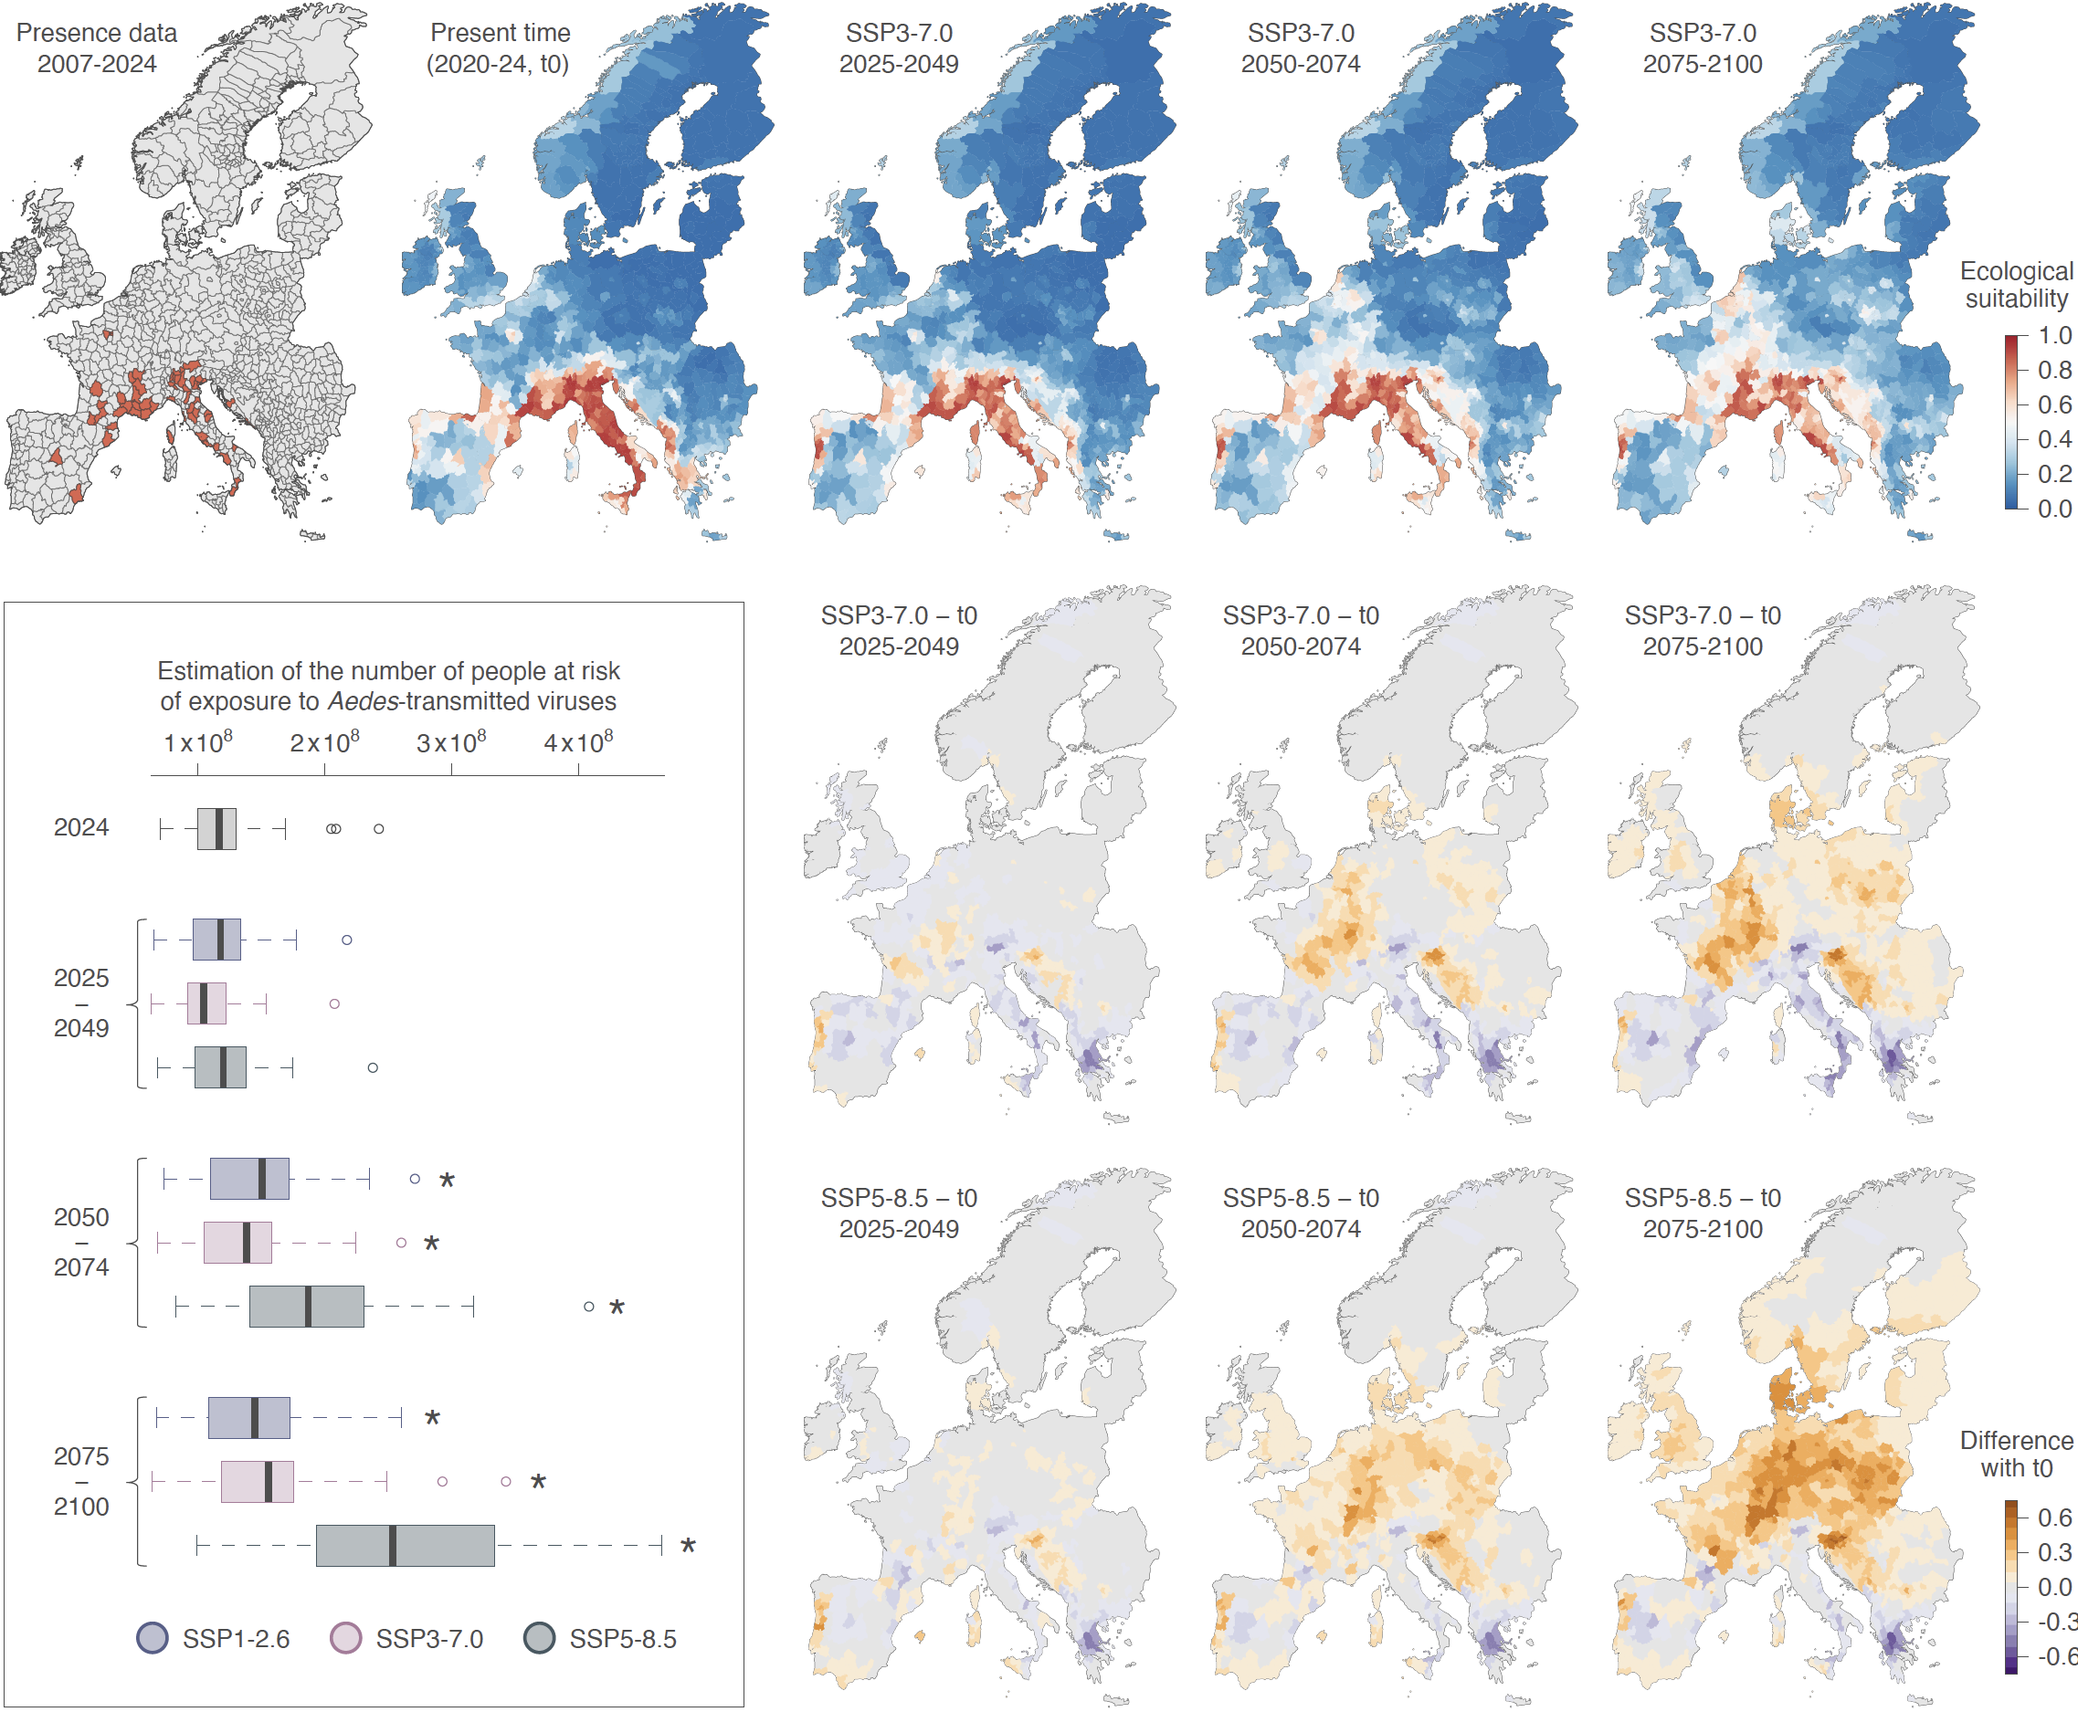
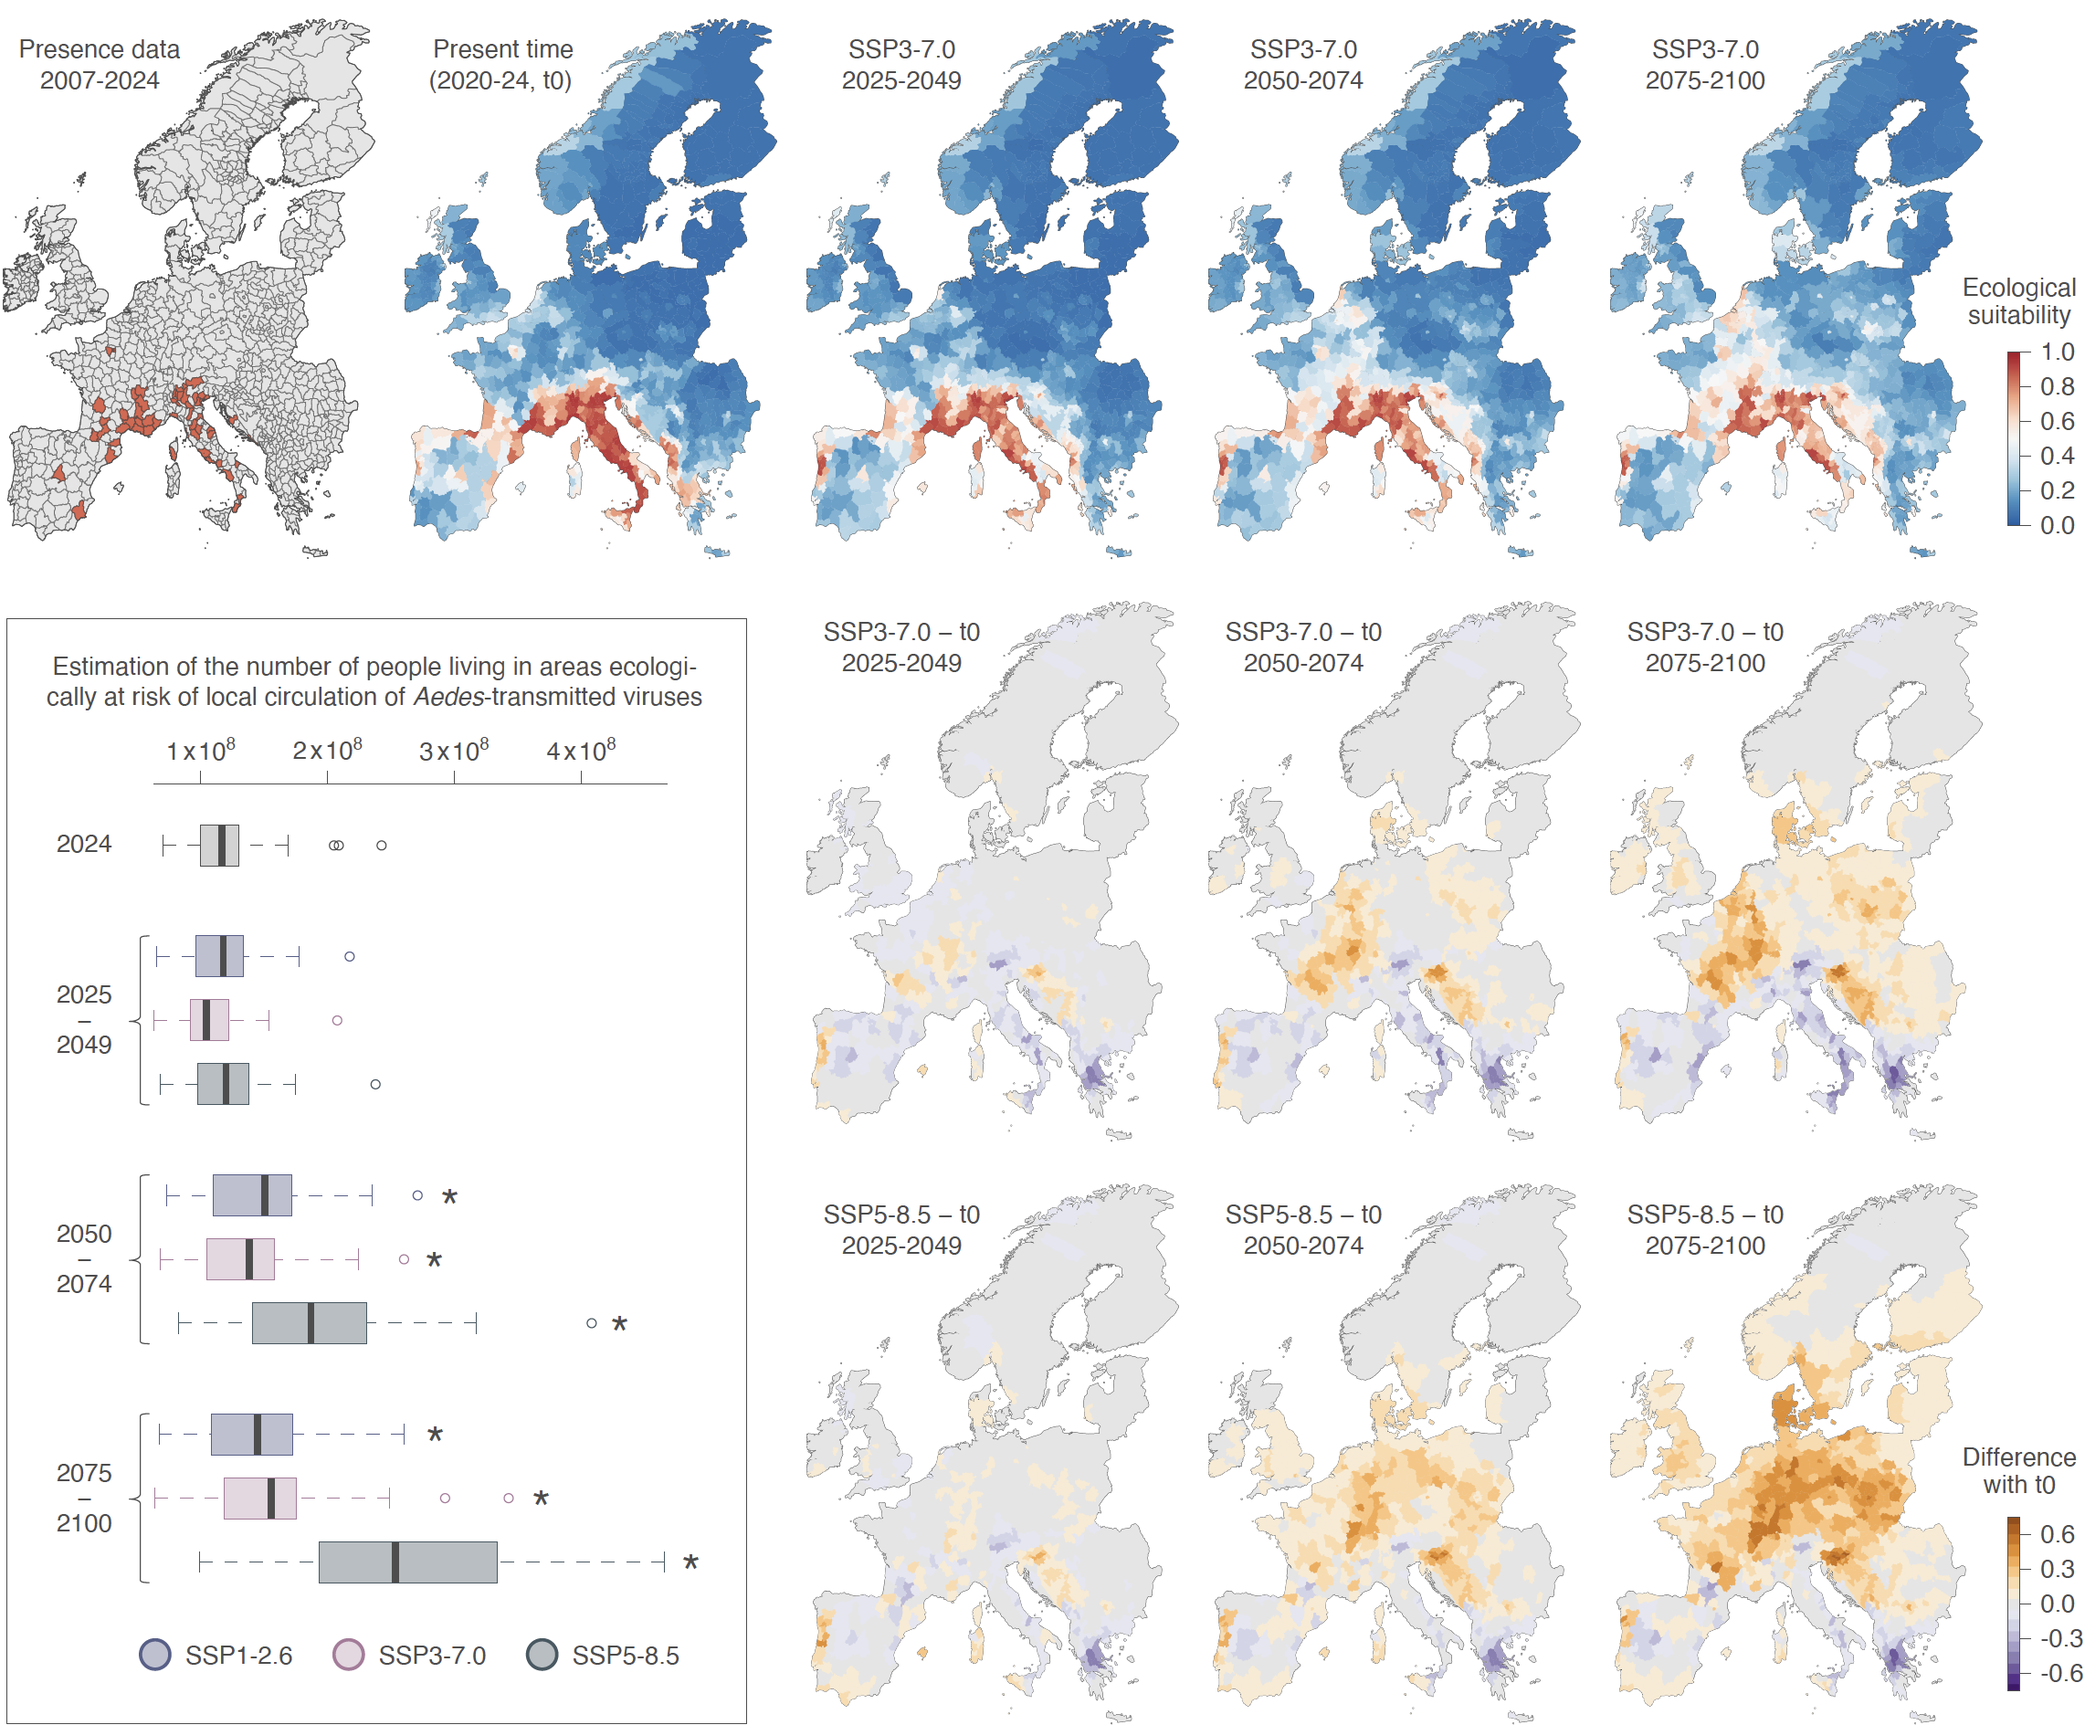
updating repo

diff --git a/README.md b/README.md
@@ -2,11 +2,11 @@
 
 This repo gathers the input files and scripts related to our study entitled "**Escalating human exposure to <i>Aedes</i> mosquito-borne viruses in Europe**" (*submitted*). R scripts used to conduct the ecological niche modelling analyses described in this study are all available in `Scripts_&_data/Script_ATV_ENM_Europe.r`.
 
-**Abstract:** Climate change has multiple public health impacts, including the expansion of the geographical range of vector-borne diseases. Pathogens such as dengue, chikungunya and Zika viruses, transmitted by <i>Aedes</i> mosquitoes, can cause severe health outcomes ranging from acute febrile illness, chronic joint pain, to birth defects and even death. Evaluating the future risk of human population exposure is therefore crucial as large outbreaks could overwhelm healthcare systems. Europe, one of the fastest warming regions globally, harbours the competent mosquito vector <i>Aedes</i> albopictus in over 20 countries, making <i>Aedes</i>-borne viruses an increasing threat to the continent, which has already experienced local outbreaks over the past two decades. Here we use an ecological niche modelling approach to assess past, present, and future risk of human population exposure to <i>Aedes</i>-borne viruses in Europe. Our results show that recent climate change has already increased the potential exposure to these viruses, particularly across the Mediterranean basin, which is a current hotspot for local outbreaks. Major metropolitan areas in Spain, France, Italy, and Croatia are by now located in at-risk areas, and this risk is projected to intensify and expand northward by mid-century. Under a high greenhouse gas emissions scenario, European areas ecologically suitable for <i>Aedes</i>-borne virus circulation could nearly double, leading to an additional ~44 million people living in areas at risk by the end of the century. These findings underscore the urgent need for strengthened vector and epidemiological surveillance, as well as preparedness strategies across newly suitable regions to anticipate future public health threats associated with these arboviral diseases.
+**Abstract:** Climate change has multiple public health impacts, including the expansion of the geographical range of vector-borne diseases. Pathogens such as dengue, chikungunya and Zika viruses, transmitted by <i>Aedes</i> mosquitoes, can cause severe health outcomes ranging from acute febrile illness, chronic joint pain, to birth defects and even death. Evaluating the future risk of human population exposure is therefore crucial as large outbreaks could overwhelm healthcare systems. Europe, one of the fastest warming regions globally, harbours the competent mosquito vector <i>Aedes albopictus</i> in over 20 countries, making <i>Aedes</i>-borne viruses an increasing threat to the continent, which has already experienced local outbreaks over the past two decades. Here we use an ecological niche modelling approach to investigate the past, present, and future potential risk of human population exposure to <i>Aedes</i>-borne viruses in Europe. Our results show that recent climate change has already increased the ecological suitability of European areas for the local circulation of these viruses, particularly across the Mediterranean basin, which is a current hotspot for local outbreaks. Major metropolitan areas in Spain, France, Italy, and Croatia are by now located in at-risk areas, and this risk is projected to intensify and expand northward by mid-century. Under a high greenhouse gas emissions scenario, European areas ecologically suitable for <i>Aedes</i>-borne virus circulation could nearly double, leading to an additional ~44 million people living in areas ecologically at risk by the end of the century. These findings underscore the urgent need for strengthened vector and epidemiological surveillance, as well as preparedness strategies across newly suitable regions to anticipate future public health threats associated with these arboviral diseases.
 
 <img src="Figure_2.png" align="center" alt="" />
 
-**Figure 2: future projections of the European areas ecologically suitable for the local circulation of <i>Aedes</i>-borne viruses and for the associated human population at risk of exposure under three different shared socio-economic pathways (SSPs).** The first row of maps displays the spatial distribution of the presence data (administrative areas with confirmed local infection cases) from 2007 to 2024 used to train the ecological niche models, the predicted ecological suitability for the local circulation of <i>Aedes</i>-borne viruses at the present time (2020-2024, referred to as “t0” in the map headings), and the future projections for three successive periods (2025-2049, 2050-2074, 2075-2100) under the high emission scenario SSP3-7.0 (see Figure S4 for the projections under the low and very high emission scenarios, SSP1-2.6 and SSP5-8.5, as well as Figure S5 for predictive presence-absence maps based on a binary classification of ecological suitability estimations). The second and third rows of maps display the difference in ecological suitability between estimates obtained for specific future projections for scenarios SSP3-7.0 or SSP5-8.5 and estimates obtained for the present-day (“t0”). Finally, the embedded boxplot graphic reports the number of people estimated to live in European areas at risk of exposure to local <i>Aedes</i>-borne virus circulation for the different periods and SSPs considered (see the Methods section for further detail on the approach used to define the areas at risk). (*) refers to a significant increase in the estimated number of people living in at-risk areas as compared to 2024 (as evaluated with a paired Wilcoxon test).
+**Figure 2. Future projections of the European areas ecologically suitable for the local circulation of <i>Aedes</i>-borne viruses and for the associated human population living in ecologically suitable areas under three different shared socio-economic pathways (SSPs).** The first row of maps displays the spatial distribution of the presence data (administrative areas with confirmed local infection cases) from 2007 to 2024 used to train the ecological niche models, the predicted ecological suitability for the local circulation of <i>Aedes</i>-borne viruses leading to detected human cases at the present time (2020-2024, also referred to as “t0” in the map headings), and the future projections for three successive periods (2025-2049, 2050-2074, 2075-2100) under the high emissions scenario SSP3-7.0 (see Figure S4 for the projections under the low and very high emission scenarios, SSP1-2.6 and SSP5-8.5, as well as Figure S5 for predictive presence-absence maps based on a binary classification of ecological suitability estimations). The second and third rows of maps display the difference in ecological suitability between estimates obtained for specific future projections for scenarios SSP3-7.0 or SSP5-8.5 and estimates obtained for the present-day (“t0”). Finally, the embedded boxplot graphic reports the number of people estimated to live in European areas ecologically at risk of local <i>Aedes</i>-borne virus circulation for the different periods and SSPs considered (see the Methods section for further detail on the approach used to define the areas ecologically at risk). (*) refers to a significant increase in the estimated number of people living in at-risk areas as compared to 2024 (as evaluated with a paired Wilcoxon test).
 
 ### Installation and system requirements ###
 All available code is written in R (v4.4.1 or higher) using Rstudio (2024.04.2+764 or higher). To run the scripts locally, adjust the root directory and file paths as needed for your system. The full workflow in `Script_ATV_ENM_Europe.r` was run on a Mac Studio equipped with an Apple M2 Ultra chip, 24 (16 Performance and 8 Efficiency), and 128 GB RAM. On this system, the complete script runtime is approximately 2.5 hours. Runtime may vary depending on hardware configuration, available memory and storage speed.
@@ -16,7 +16,7 @@ All available code is written in R (v4.4.1 or higher) using Rstudio (2024.04.2+7
 
 ### Analyses summary ###
 `Script_ATV_ENM_Europe.R` performs the complete ecological niche modelling workflow:
-(1) **data preparation** — administrative boundaries and Aedes-borne viral occurrence data curation;
+(1) **data preparation** — administrative boundaries and <i>Aedes</i>-borne viral occurrence data curation;
 (2) **model training and evaluation** — pseudo-absence generation, environmental predictor selection, spatial cross-validation, hyperparameter tuning, and BRT model fitting;
 (3) **model interpretation** — variable importance assessment and response curves; 
 (4) **current risk mapping** — ecological suitability predictions for 2020-2024;
